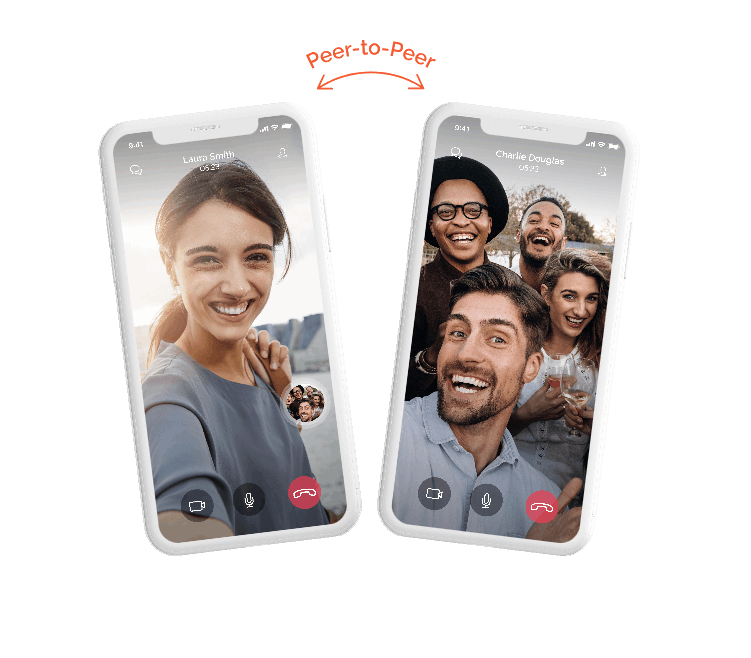
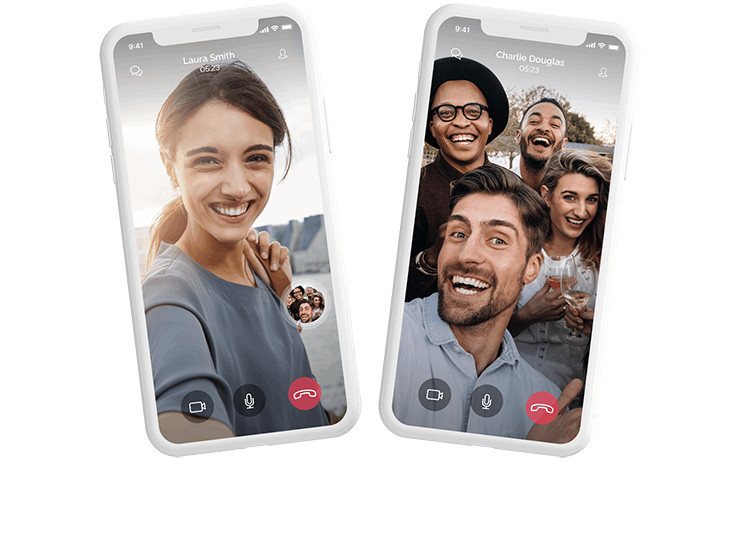
peer to peer, message pop up animation added

diff --git a/src/components/Home/HomePage/index.tsx b/src/components/Home/HomePage/index.tsx
@@ -3,6 +3,8 @@ import StayArea from '../StayArea'
 import CommunicationArea from '../CommunicationArea'
 import { ResponsiveImage, ResponsiveImageSize } from 'react-responsive-image'
 import ReactPlayer from 'react-player'
+import ScrollAnimation from 'react-animate-on-scroll'
+
 import './styles.scss'
 
 import home_watching_mobile from '../../../images/home_watching_mobile.png'
@@ -19,6 +21,9 @@ import Dorian_thumb from '../../../images/Dorian_thumb.png'
 
 import foot_home_mobile from '../../../images/foot_home_mobile.png'
 import foot_home_landscape from '../../../images/foot_home_landscape.png'
+
+import message_in from '../../../images/message_in.png'
+import message_coming from '../../../images/message_coming.png'
 
 const HomePage: React.StatelessComponent<{}> = () => {
   return (
@@ -39,14 +44,33 @@ const HomePage: React.StatelessComponent<{}> = () => {
             <br /> confidential.
           </div>
         </div>
-        <ResponsiveImage className="watching_img">
-          <ResponsiveImageSize
-            default
-            minWidth={0}
-            path={home_watching_mobile}
-          />
-          <ResponsiveImageSize minWidth={576} path={home_watching_landscape} />
-        </ResponsiveImage>
+        <div className="watching_img">
+          <ResponsiveImage className="">
+            <ResponsiveImageSize
+              default
+              minWidth={0}
+              path={home_watching_mobile}
+            />
+            <ResponsiveImageSize
+              minWidth={576}
+              path={home_watching_landscape}
+            />
+          </ResponsiveImage>
+          <ScrollAnimation
+            animateIn="scale-up-center"
+            delay={0}
+            className="message_in"
+          >
+            <img src={message_in} className="" />
+          </ScrollAnimation>
+          <ScrollAnimation
+            animateIn="scale-up-center"
+            delay={0}
+            className="message_coming"
+          >
+            <img src={message_coming} className="" />
+          </ScrollAnimation>
+        </div>
       </div>
       <div className="identity_area">
         <div className="text">

diff --git a/src/components/Home/HomePage/styles.scss b/src/components/Home/HomePage/styles.scss
@@ -18,8 +18,25 @@
       }
     }
     .watching_img {
+      position: relative;
       img {
         width: 100%;
+      }
+      .message_in {
+        position: absolute;
+        top: 48%;
+        left: 37%;
+        img {
+          width: calc(100vw * 160 / 375);
+        }
+      }
+      .message_coming {
+        position: absolute;
+        top: 75%;
+        left: 16%;
+        img {
+          width: calc(100vw * 87 / 375);
+        }
       }
     }
   }
@@ -149,7 +166,7 @@
   }
 }
 
-@include media-breakpoint-up(lg) {
+@include media-breakpoint-up(md) {
   .HomePage {
     .watching_area {
       margin-bottom: 186px;
@@ -180,6 +197,22 @@
         width: 50%;
         order: 1;
         img {
+        }
+        .message_in {
+          position: absolute;
+          top: 48%;
+          left: 57%;
+          img {
+            width: calc(100vw * 229 / 1440);
+          }
+        }
+        .message_coming {
+          position: absolute;
+          top: 74%;
+          left: 42%;
+          img {
+            width: calc(100vw * 125 / 1440);
+          }
         }
       }
     }
@@ -260,4 +293,31 @@
       margin-top: 0;
     }
   }
+}
+
+@-webkit-keyframes scale-up-center {
+  0% {
+    -webkit-transform: scale(0.1);
+    transform: scale(0.1);
+  }
+  100% {
+    -webkit-transform: scale(1);
+    transform: scale(1);
+  }
+}
+@keyframes scale-up-center {
+  0% {
+    -webkit-transform: scale(0.1);
+    transform: scale(0.1);
+  }
+  100% {
+    -webkit-transform: scale(1);
+    transform: scale(1);
+  }
+}
+
+.scale-up-center {
+  -webkit-animation: scale-up-center 0.4s cubic-bezier(0.39, 0.575, 0.565, 1)
+    both;
+  animation: scale-up-center 0.4s cubic-bezier(0.39, 0.575, 0.565, 1) both;
 }

diff --git a/src/components/TheDifferencePage/index.tsx b/src/components/TheDifferencePage/index.tsx
@@ -1,6 +1,7 @@
 import * as React from 'react'
 import { ResponsiveImage, ResponsiveImageSize } from 'react-responsive-image'
 import HoverImage from 'react-hover-image'
+import ScrollAnimation from 'react-animate-on-scroll'
 
 import './styles.scss'
 
@@ -18,6 +19,8 @@ import token from '../../images/token.png'
 
 import the_difference_footer_bg_mobile from '../../images/the_difference_footer_bg_mobile.png'
 import the_difference_footer_bg from '../../images/the_difference_footer_bg.png'
+
+import peer_to_peer_text from '../../images/peer_to_peer_text.svg'
 
 const TheDifferencePage: React.StatelessComponent<{}> = () => {
   return (
@@ -73,7 +76,16 @@ const TheDifferencePage: React.StatelessComponent<{}> = () => {
             </div>
           </div>
         </div>
-        <img src={peer_to_peer} className="phone" />
+        <div className="image_area">
+          <ScrollAnimation
+            animateIn="swing"
+            delay={0}
+            className="swing_animation"
+          >
+            <img src={peer_to_peer_text} className="peer_text" />
+          </ScrollAnimation>
+          <img src={peer_to_peer} className="phone" />
+        </div>
         <div className="small_text">
           <div className="up_half">
             Sylo Messaging is a decentralized service that

diff --git a/src/components/TheDifferencePage/styles.scss b/src/components/TheDifferencePage/styles.scss
@@ -51,9 +51,19 @@
         display: none;
       }
     }
-    .phone {
+    .image_area {
       order: 2;
       width: 100%;
+      .phone {
+        width: 100%;
+      }
+      .swing_animation {
+        display: flex;
+        justify-content: center;
+        .peer_text {
+          transform: scale(0.8);
+        }
+      }
     }
     .small_text {
       width: 100%;
@@ -200,9 +210,17 @@
           display: block;
         }
       }
-      .phone {
+      .image_area {
         order: 1;
         width: 50%;
+        .phone {
+          width: 100%;
+        }
+        .swing_animation {
+          .peer_text {
+            transform: scale(1);
+          }
+        }
       }
       & > .small_text {
         display: none;
